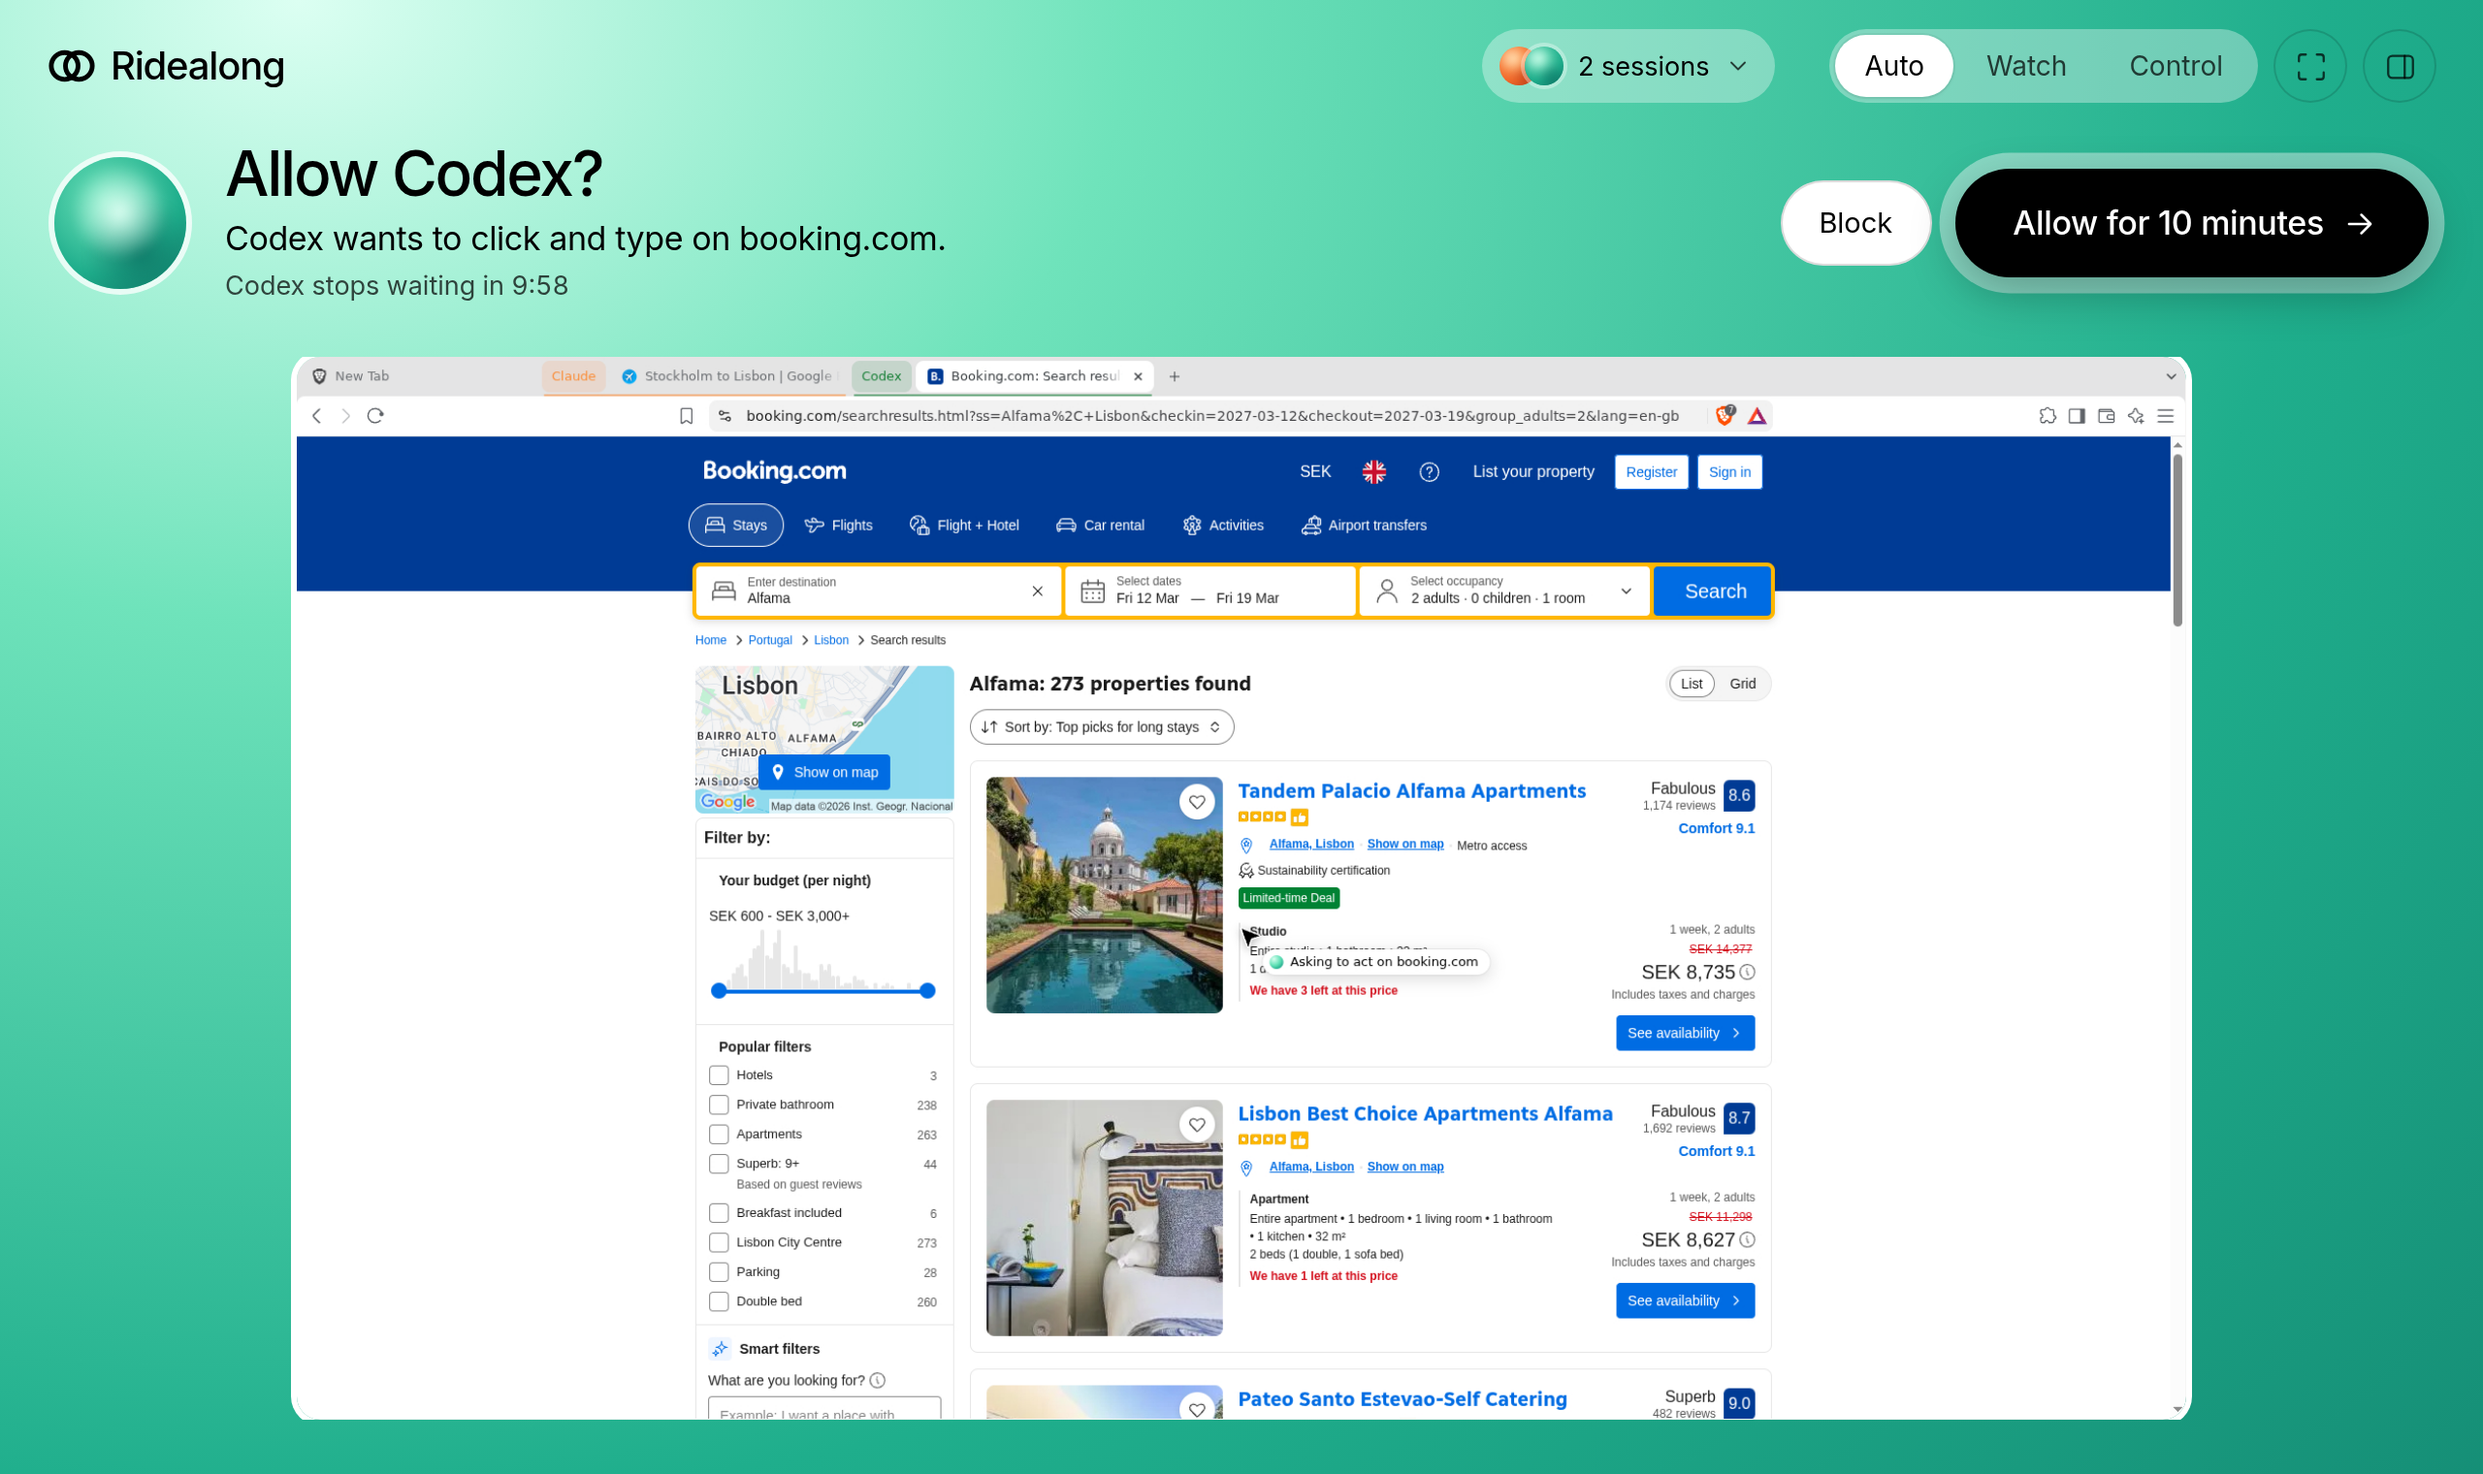
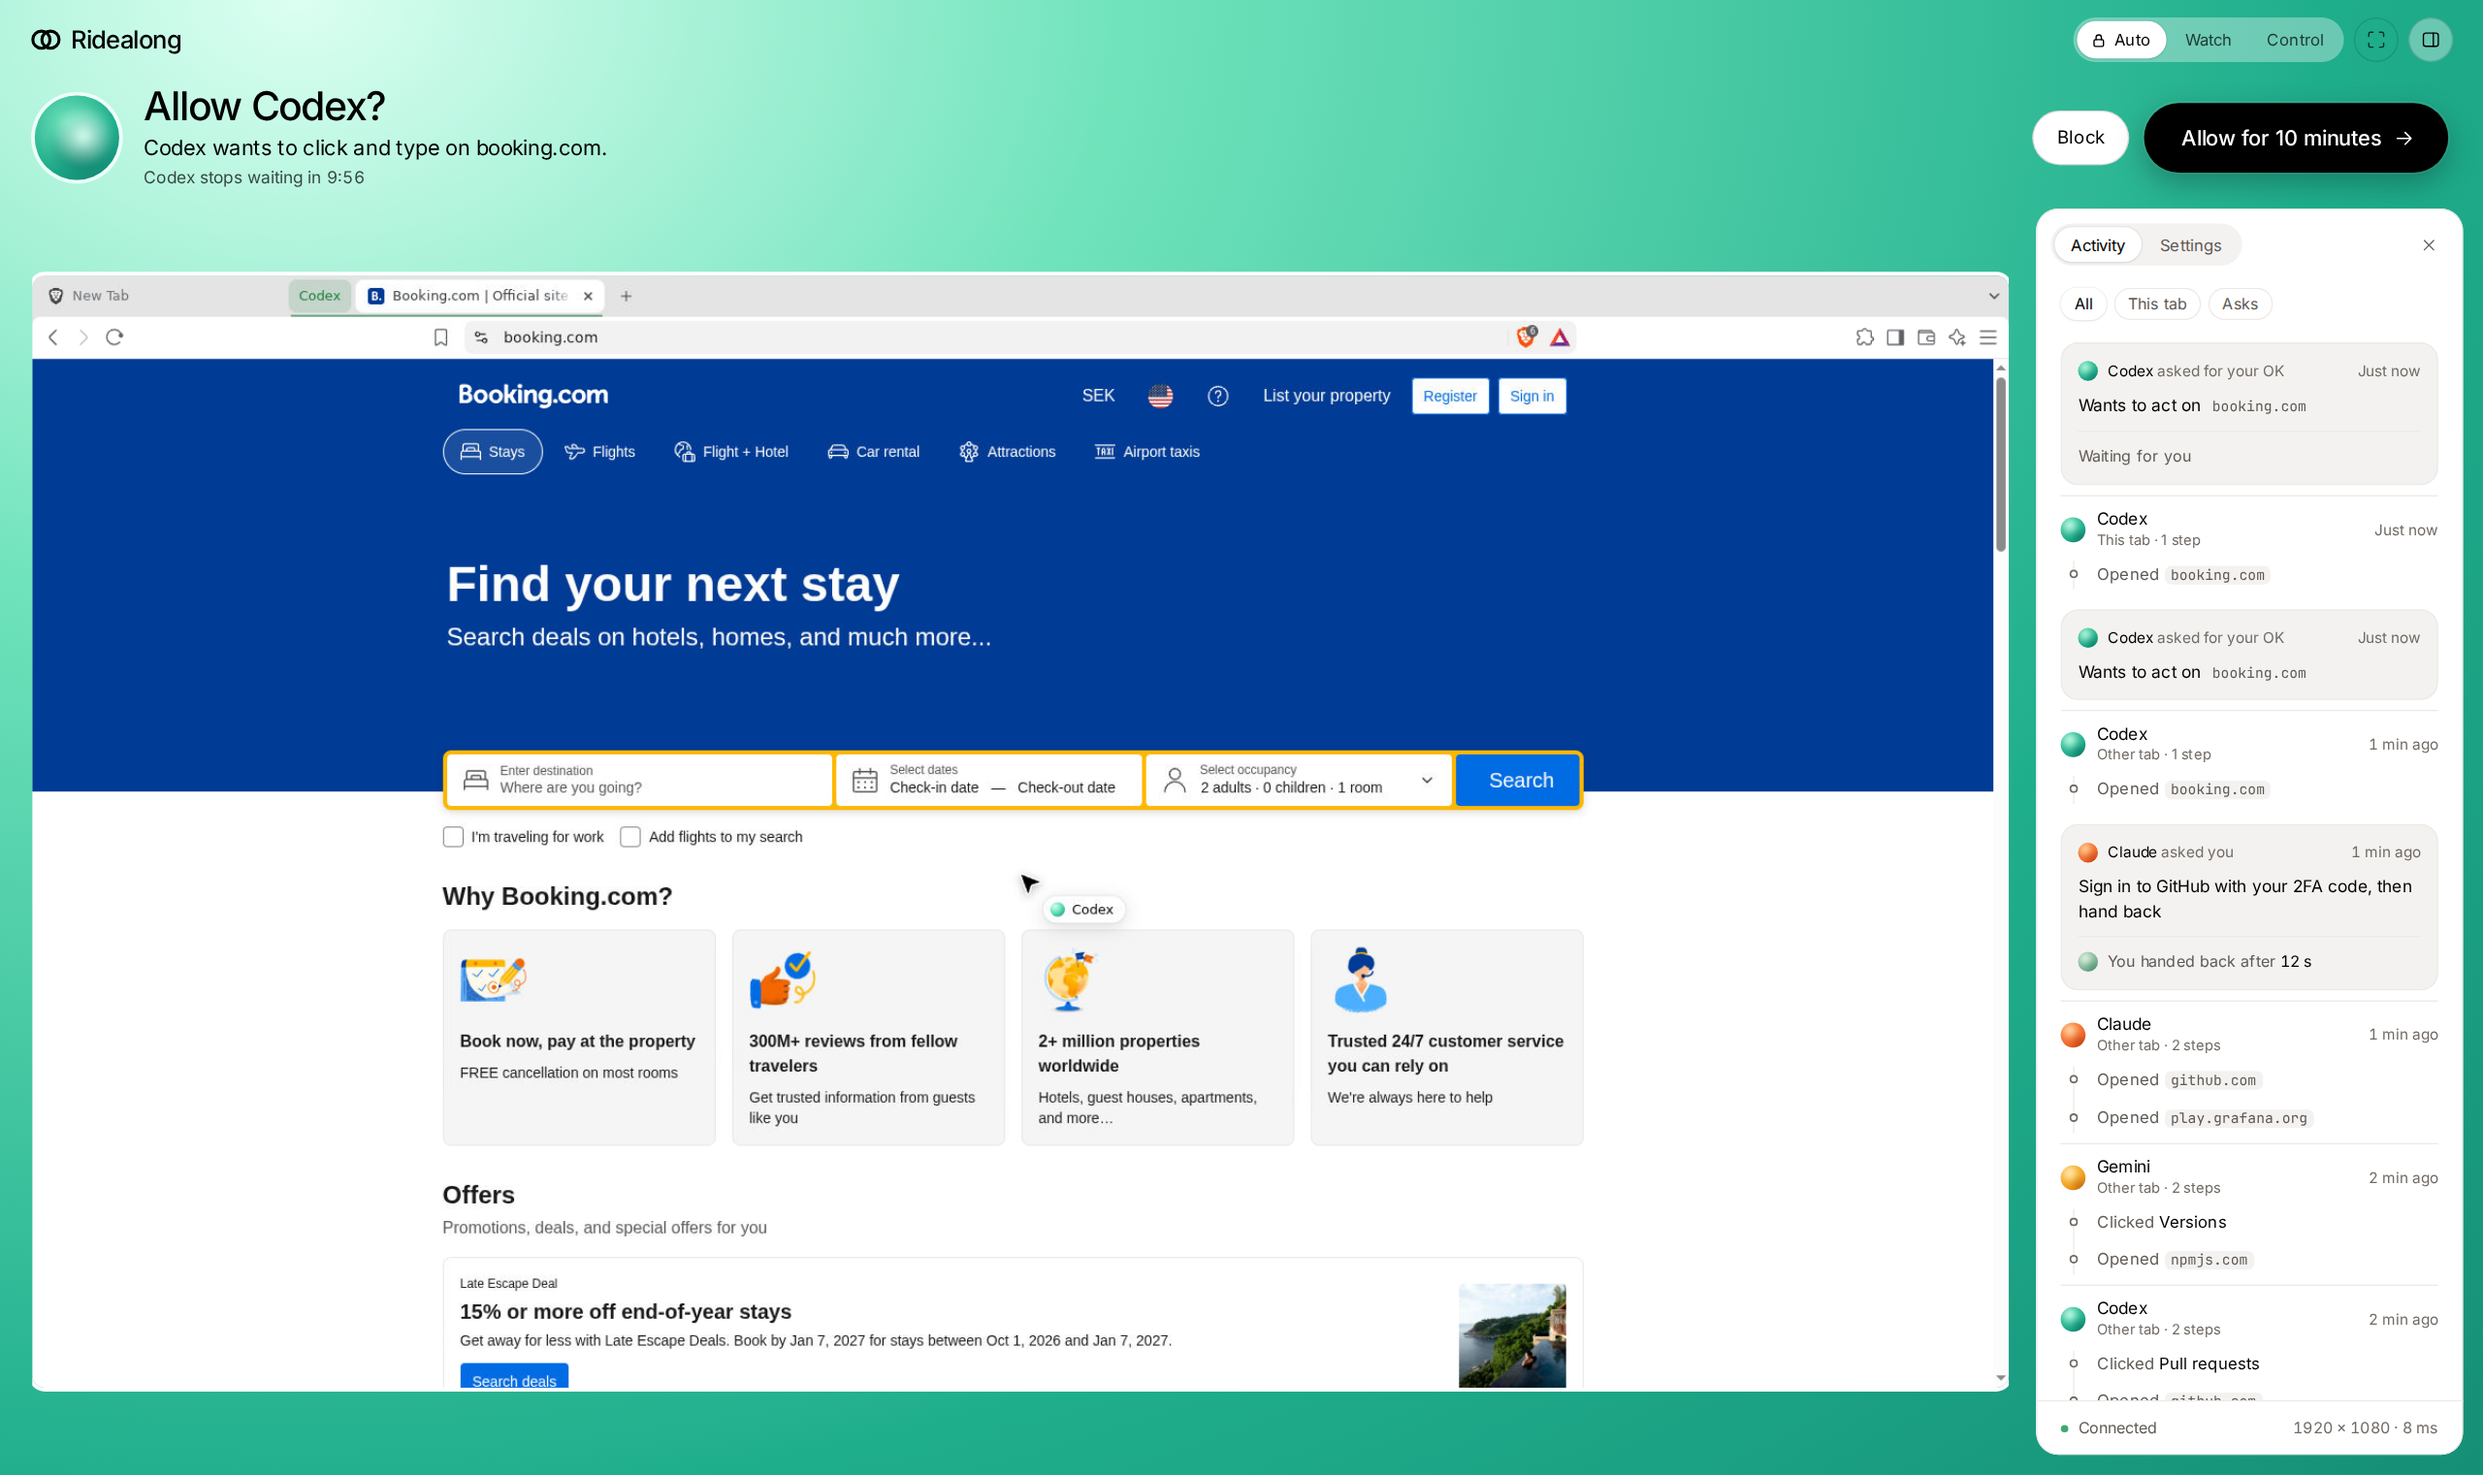
Retake README screenshots, fix the footer round trip (#8)
* Keep the round trip apart from the screen size in the footer

The round trip was measured before the screen connected, so it had no
separator and ran into the size (1920 × 108011 ms). The separator is now
drawn by CSS whenever both are shown.

* Retake README screenshots with the new viewer

Real agents through the real MCP server on Grafana's public demo, GitHub,
npm and Booking.com, in a clean Brave.

diff --git a/viewer/public/style.css b/viewer/public/style.css
@@ -240,6 +240,7 @@ input[type="range"]::-moz-range-thumb { width: 16px; height: 16px; border: 0; bo
 .foot .dot.live { background: #3fa873; }
 .foot .size { margin-left: auto; font-variant-numeric: tabular-nums; white-space: nowrap; }
 .foot #connection { color: var(--body); }
+#size:not(:empty) + #ping:not(:empty)::before { content: " · "; }
 .foot .stale { min-width: 0; overflow: hidden; text-overflow: ellipsis; white-space: nowrap; color: var(--body); }
 .about { margin: 0; padding-top: 18px; color: var(--quiet); font-size: 12px; }
 .about span { font-family: ui-monospace, "SF Mono", "JetBrains Mono", Menlo, monospace; font-size: 11.5px; }

diff --git a/viewer/public/app.js b/viewer/public/app.js
@@ -703,7 +703,7 @@ const ping = async () => {
   const start = performance.now();
   try {
     await fetch("/api/health", { cache: "no-store" });
-    $("ping").textContent = `${$("size").textContent ? " · " : ""}${Math.round(performance.now() - start)} ms`;
+    $("ping").textContent = `${Math.round(performance.now() - start)} ms`;
   } catch { $("ping").textContent = ""; }
 };
 setInterval(ping, 10000);
